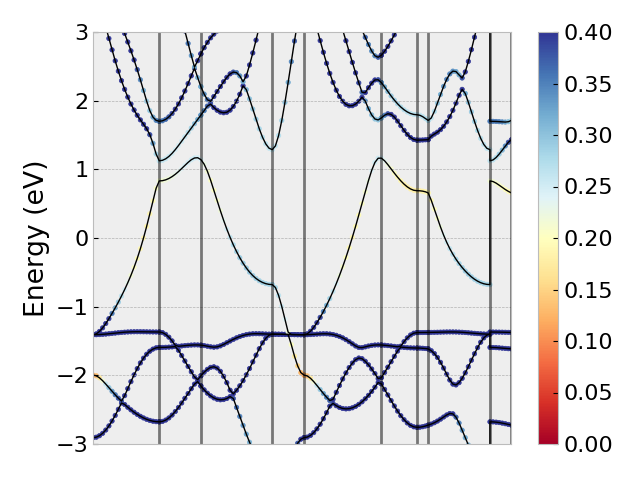
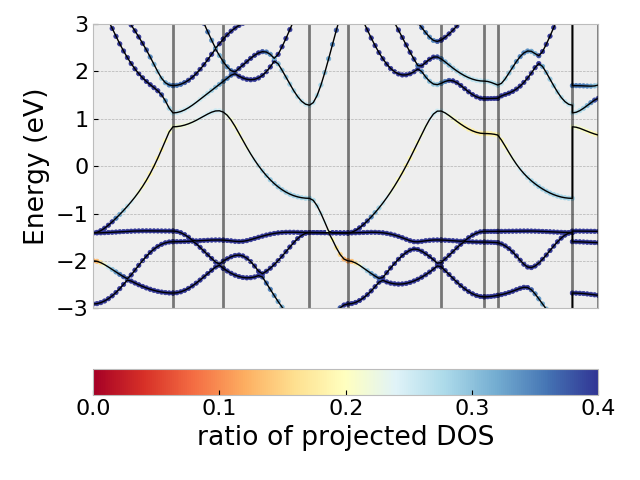
add color bar label

Changed region(s): [[0.0312, 0.0312, 0.9688, 0.9375], [0.125, 0.1875, 0.1562, 0.2812], [0.0938, 0.9062, 0.1562, 0.9375]]

diff --git a/vasprun.py b/vasprun.py
@@ -594,7 +594,11 @@ class vasprun:
         for pt in band_pts:
             plt.axvline(x=pt, ls='-', color='k', alpha=0.5)
 
-        if styles == 'projected': plt.colorbar()
+        if styles == 'projected': 
+            cbar = plt.colorbar(orientation='horizontal', 
+                                ticks=[0, 0.1, 0.2, 0.3, 0.4, 0.5, 0.6, 0.7, 0.8, 0.9, 1.0], 
+                                )
+            cbar.set_label('ratio of projected DOS')#, fontsize=12)
         plt.ylabel("Energy (eV)")
         plt.ylim(ylim)
         plt.xlim([0, paths[-1]])
